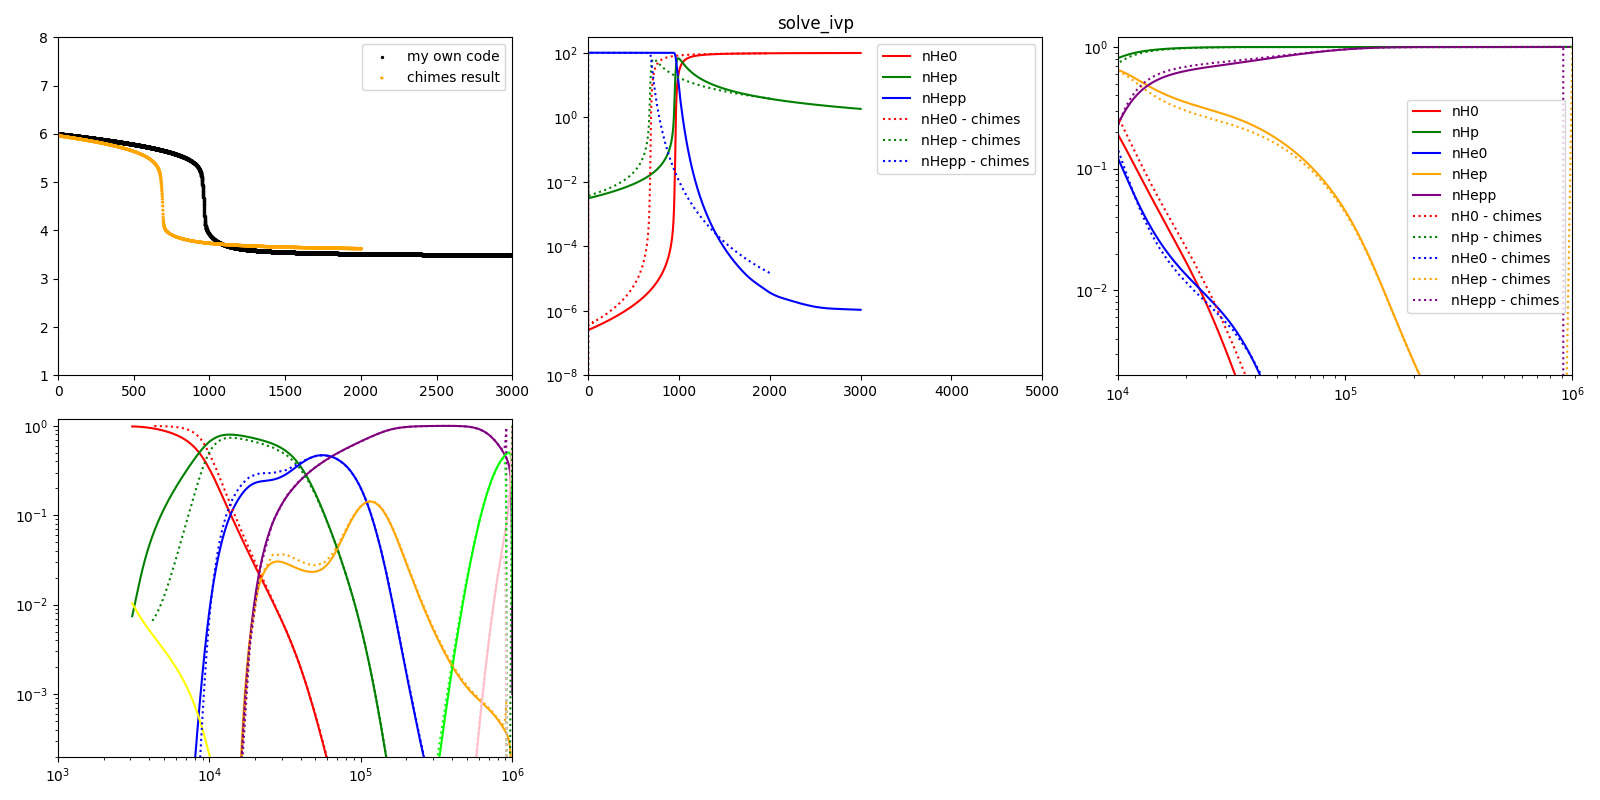
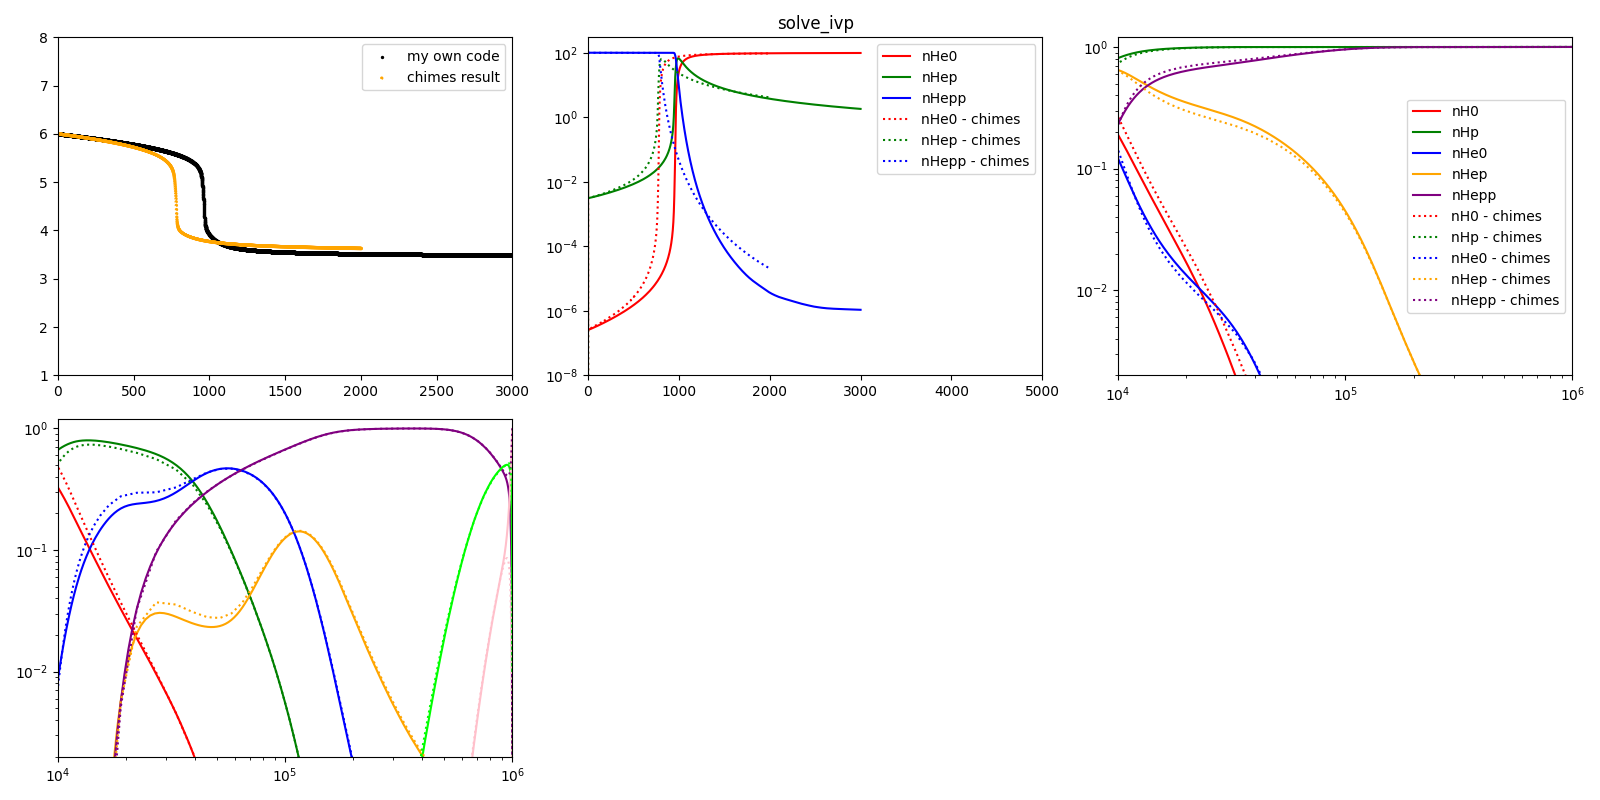
28 May - 2024

diff --git a/Particles_in_BH_Tree_III/hcool_with_unit_tests_Here/my_own_code_Here/check_chimes_main_data_Here/Jacobian_Here/Charge_transfer/Jacob_C_H_He1_freeFree2_chargeTransfer_CR_Cm.py b/Particles_in_BH_Tree_III/hcool_with_unit_tests_Here/my_own_code_Here/check_chimes_main_data_Here/Jacobian_Here/Charge_transfer/Jacob_C_H_He1_freeFree2_chargeTransfer_CR_Cm.py
@@ -468,15 +468,15 @@ plt.plot(TEvolx, nC3x/nCx, color = 'orange', linestyle = ':')
 plt.plot(TEvolx, nC4x/nCx, color = 'purple', linestyle = ':')
 plt.plot(TEvolx, nC5x/nCx, color = 'lime', linestyle = ':')
 plt.plot(TEvolx, nC6x/nCx, color = 'pink', linestyle = ':')
-plt.plot(TEvolx, nCmx/nCx, color = 'yellow', linestyle = ':')
+#plt.plot(TEvolx, nCmx/nCx, color = 'yellow', linestyle = ':')
 
 print('np.sort(nCm/nC) = ', np.sort(nCm/nC))
 print('np.sort(nCmx/nCx) = ', np.sort(nCmx/nCx))
 
 plt.yscale('log')
 plt.xscale('log')
-plt.ylim(2e-4, 1.2)
-plt.xlim(1e3, 1e6)
+plt.ylim(2e-3, 1.2)
+plt.xlim(1e4, 1e6)
 #plt.legend()
 
 plt.tight_layout()
